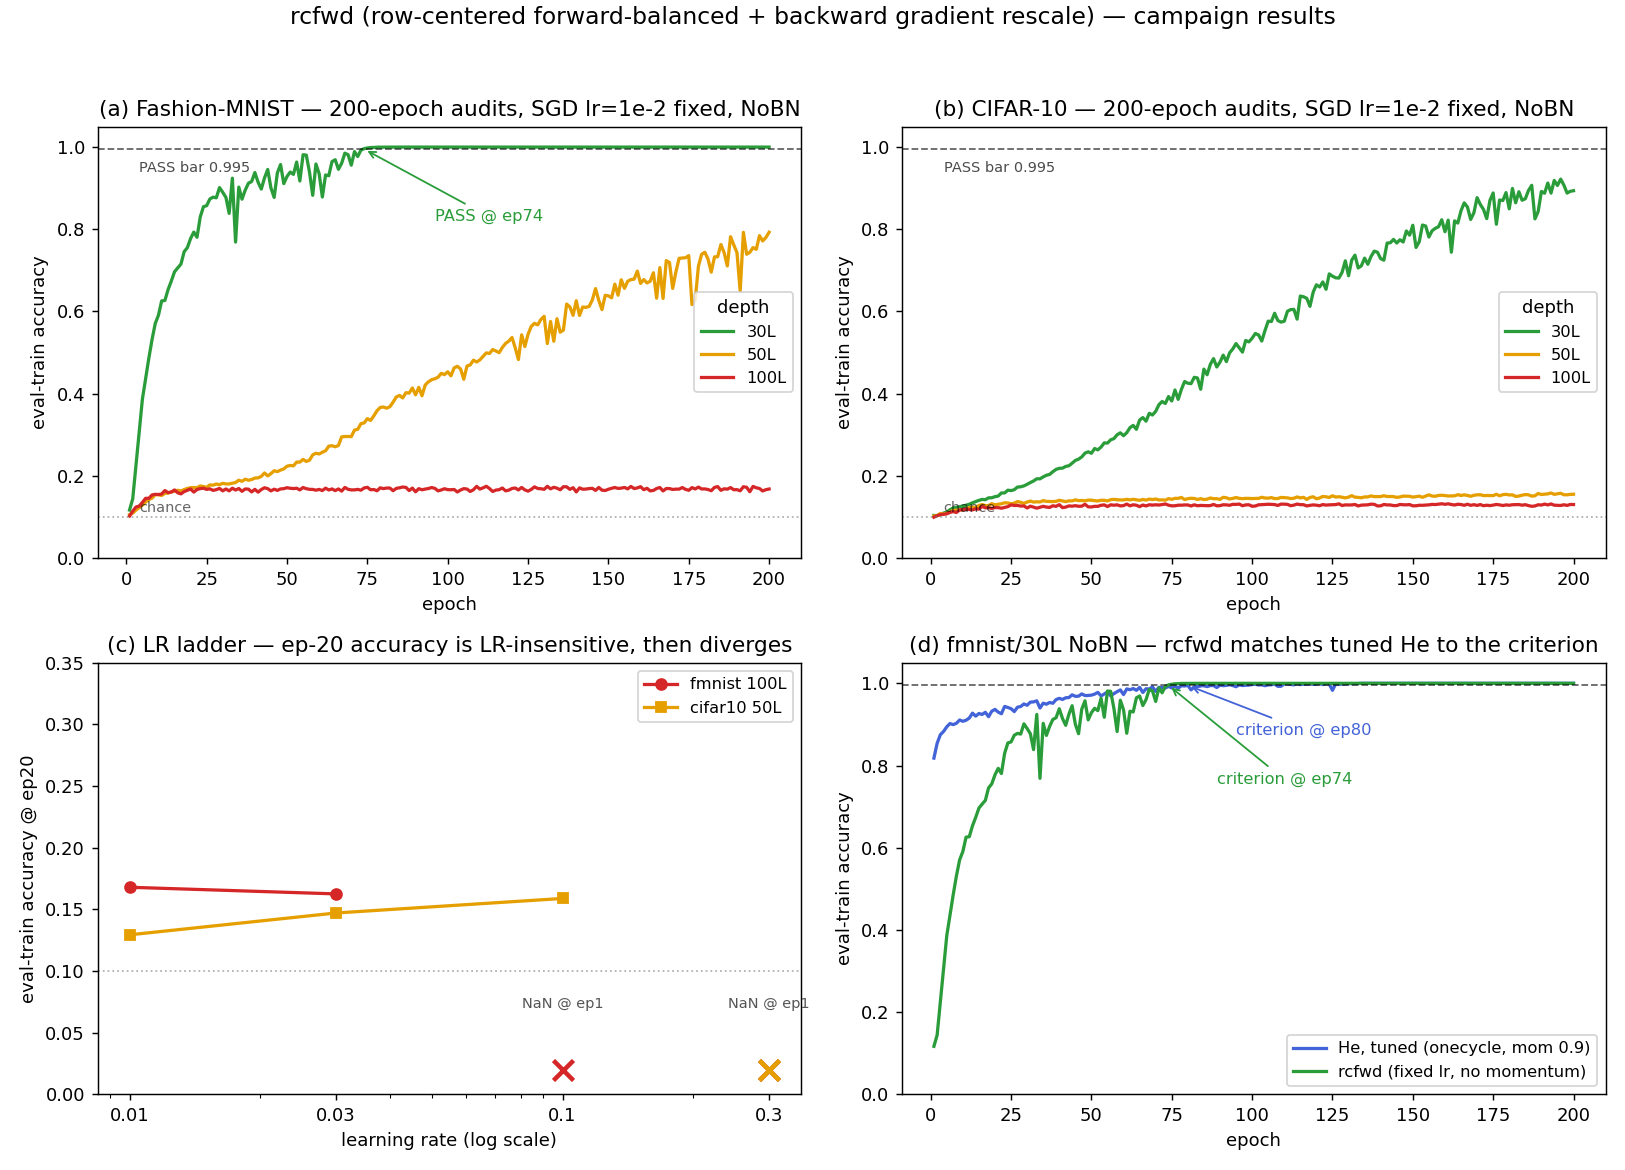
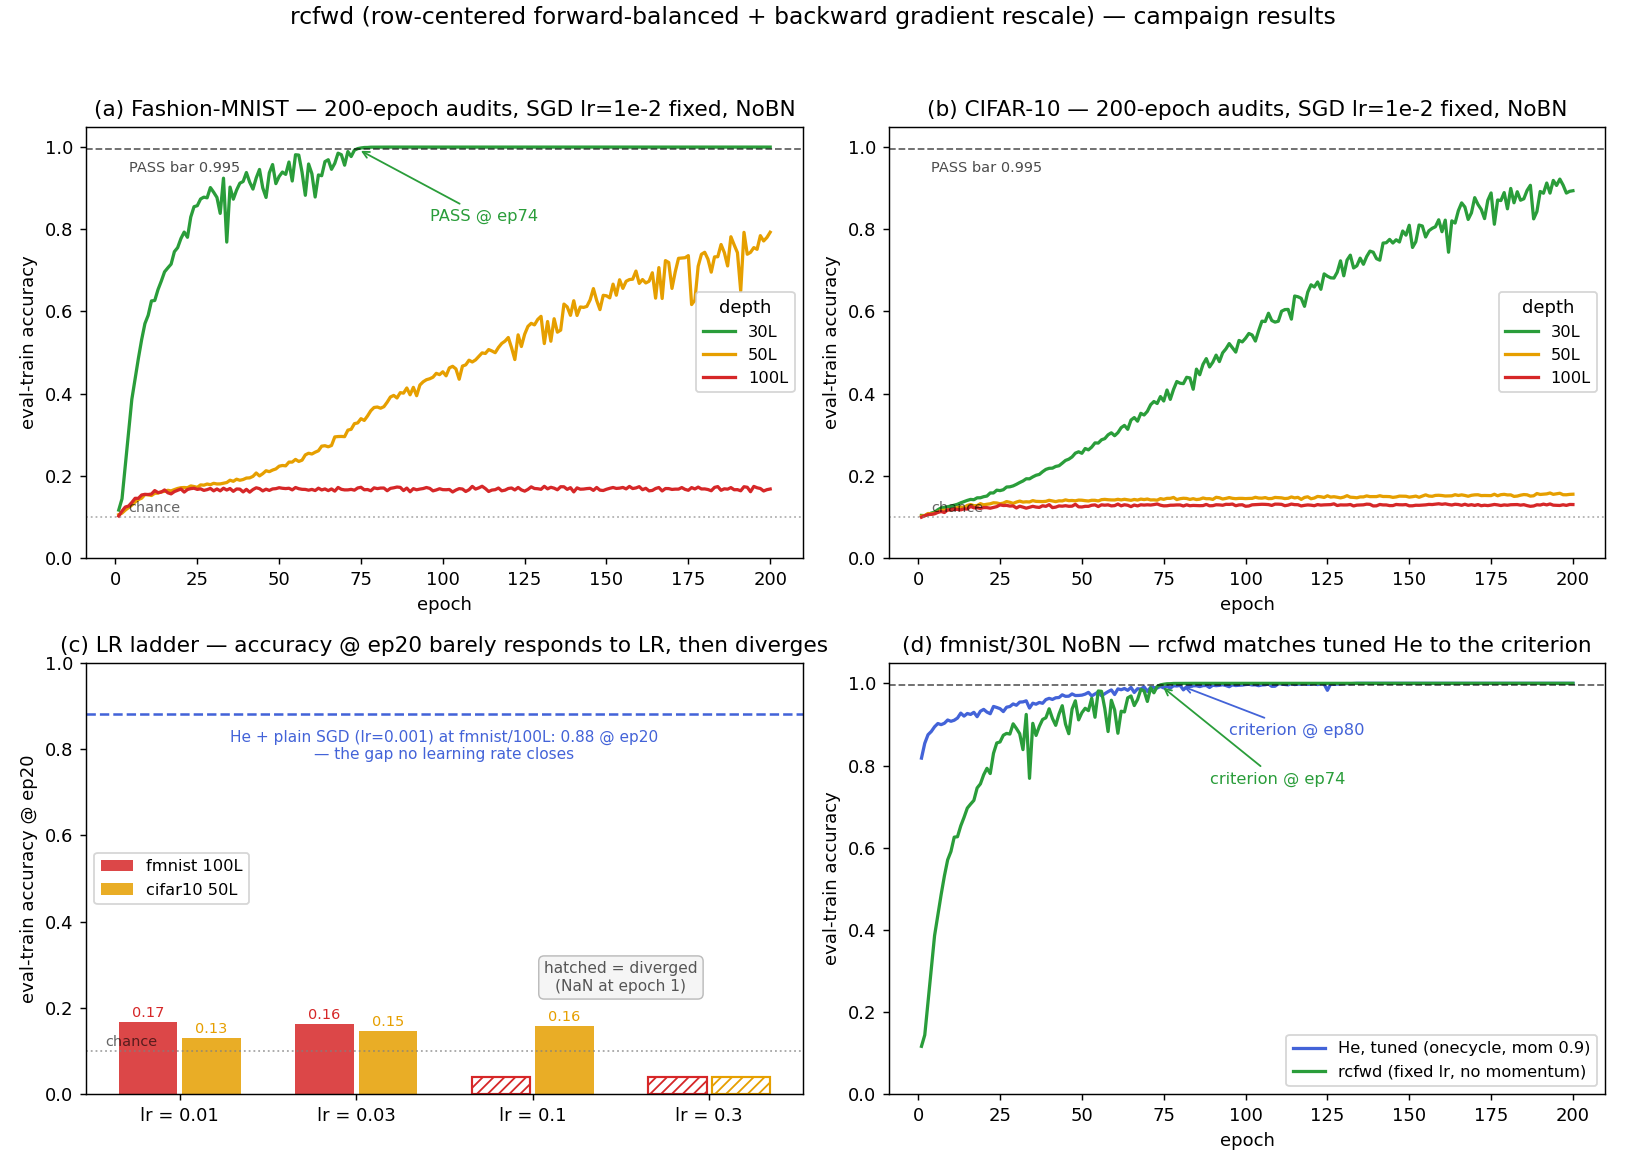
Clarify LR-ladder panel in the campaign-09 summary figure
Panel (c) redesigned: discrete LRs as a categorical bar chart instead
of a sparse log-scale line plot; diverged runs shown as hatched stubs
with a single note; and the counterfactual anchor added - He + plain
SGD reaching 0.88 at the same depth/epoch - so the gap that no
learning rate closes is visible on the plot itself.

diff --git a/scripts/rcfwd_campaign_summary.py b/scripts/rcfwd_campaign_summary.py
@@ -58,7 +58,7 @@ ep_pass = next(e["epoch"] for e in h30 if e["eval_train_accuracy"] >= CRIT and e
 axes[0, 0].annotate(f"PASS @ ep{ep_pass}", xy=(ep_pass, CRIT), xytext=(ep_pass + 22, 0.82),
                     arrowprops=dict(arrowstyle="->", color=DEPTH_COLOR[30]), color=DEPTH_COLOR[30], fontsize=9)
 
-# --- (c) LR ladder ---
+# --- (c) LR ladder: categorical bars + the counterfactual anchor ---
 ax = axes[1, 0]
 LRS = [0.01, 0.03, 0.1, 0.3]
 LADDER = {
@@ -67,29 +67,33 @@ LADDER = {
     "cifar10_50L": {0.01: "rcfwd_rescale_smoke_cifar10_50L.json", 0.03: "rcfwd_lr3e2_smoke_cifar10_50L.json",
                     0.1: "rcfwd_lr1e1_smoke_cifar10_50L.json", 0.3: "rcfwd_lr3e1_smoke_cifar10_50L.json"},
 }
-for cell, files, color, marker in [("fmnist_100L", LADDER["fmnist_100L"], DEPTH_COLOR[100], "o"),
-                                   ("cifar10_50L", LADDER["cifar10_50L"], DEPTH_COLOR[50], "s")]:
-    xs, ys, dx = [], [], []
-    for lr in LRS:
-        h = hist(files[lr])
+W = 0.36
+for i, (cell, color) in enumerate([("fmnist_100L", DEPTH_COLOR[100]), ("cifar10_50L", DEPTH_COLOR[50])]):
+    for j, lr in enumerate(LRS):
+        x = j + (i - 0.5) * W
+        h = hist(LADDER[cell][lr])
         if h:
-            xs.append(lr)
-            ys.append(next(e["eval_train_accuracy"] for e in h if e["epoch"] == 20))
+            y = next(e["eval_train_accuracy"] for e in h if e["epoch"] == 20)
+            ax.bar(x, y, W * 0.92, color=color, alpha=0.85,
+                   label=cell.replace("_", " ") if j == 0 else None)
+            ax.text(x, y + 0.012, f"{y:.2f}", ha="center", fontsize=8, color=color)
         else:
-            dx.append(lr)
-    ax.plot(xs, ys, marker=marker, color=color, lw=1.8, label=cell.replace("_", " "))
-    ax.plot(dx, [0.02] * len(dx), marker="x", ms=11, mew=2.5, ls="none", color=color)
-for lr, txt_y in [(0.1, 0.07), (0.3, 0.07)]:
-    ax.annotate("NaN @ ep1", xy=(lr, 0.02), xytext=(lr, txt_y), fontsize=8, ha="center", color="#555")
-ax.axhline(0.1, color="gray", ls=":", lw=1, alpha=0.6)
-ax.set_xscale("log")
-ax.set_xticks(LRS)
-ax.set_xticklabels([str(l) for l in LRS])
-ax.set_title("(c) LR ladder — ep-20 accuracy is LR-insensitive, then diverges")
-ax.set_xlabel("learning rate (log scale)")
+            ax.bar(x, 0.04, W * 0.92, color="white", edgecolor=color, hatch="////", lw=1.2)
+ax.text(2.5, 0.24, "hatched = diverged\n(NaN at epoch 1)", ha="center", fontsize=8.5, color="#555",
+        bbox=dict(boxstyle="round,pad=0.35", fc="#f5f5f5", ec="#bbb", lw=0.8))
+# what fast learning at this depth looks like (He + plain SGD lr=1e-3, fmnist/100L)
+he100 = next(e["eval_train_accuracy"] for e in hist("plain_sgd_100L_nobn_w512_fashion_mnist.json") if e["epoch"] == 20)
+ax.axhline(he100, color="#4363d8", ls="--", lw=1.4)
+ax.text(1.5, he100 - 0.035, f"He + plain SGD (lr=0.001) at fmnist/100L: {he100:.2f} @ ep20\n— the gap no learning rate closes",
+        fontsize=8.5, color="#4363d8", ha="center", va="top")
+ax.axhline(0.1, color="gray", ls=":", lw=1, alpha=0.7)
+ax.text(-0.42, 0.112, "chance", fontsize=8, alpha=0.6)
+ax.set_xticks(range(len(LRS)))
+ax.set_xticklabels([f"lr = {l}" for l in LRS])
+ax.set_title("(c) LR ladder — accuracy @ ep20 barely responds to LR, then diverges")
 ax.set_ylabel("eval-train accuracy @ ep20")
-ax.set_ylim(0, 0.35)
-ax.legend(fontsize=9)
+ax.set_ylim(0, 1.0)
+ax.legend(fontsize=9, loc="center left")
 
 # --- (d) fmnist/30L: rcfwd vs tuned He ---
 ax = axes[1, 1]
